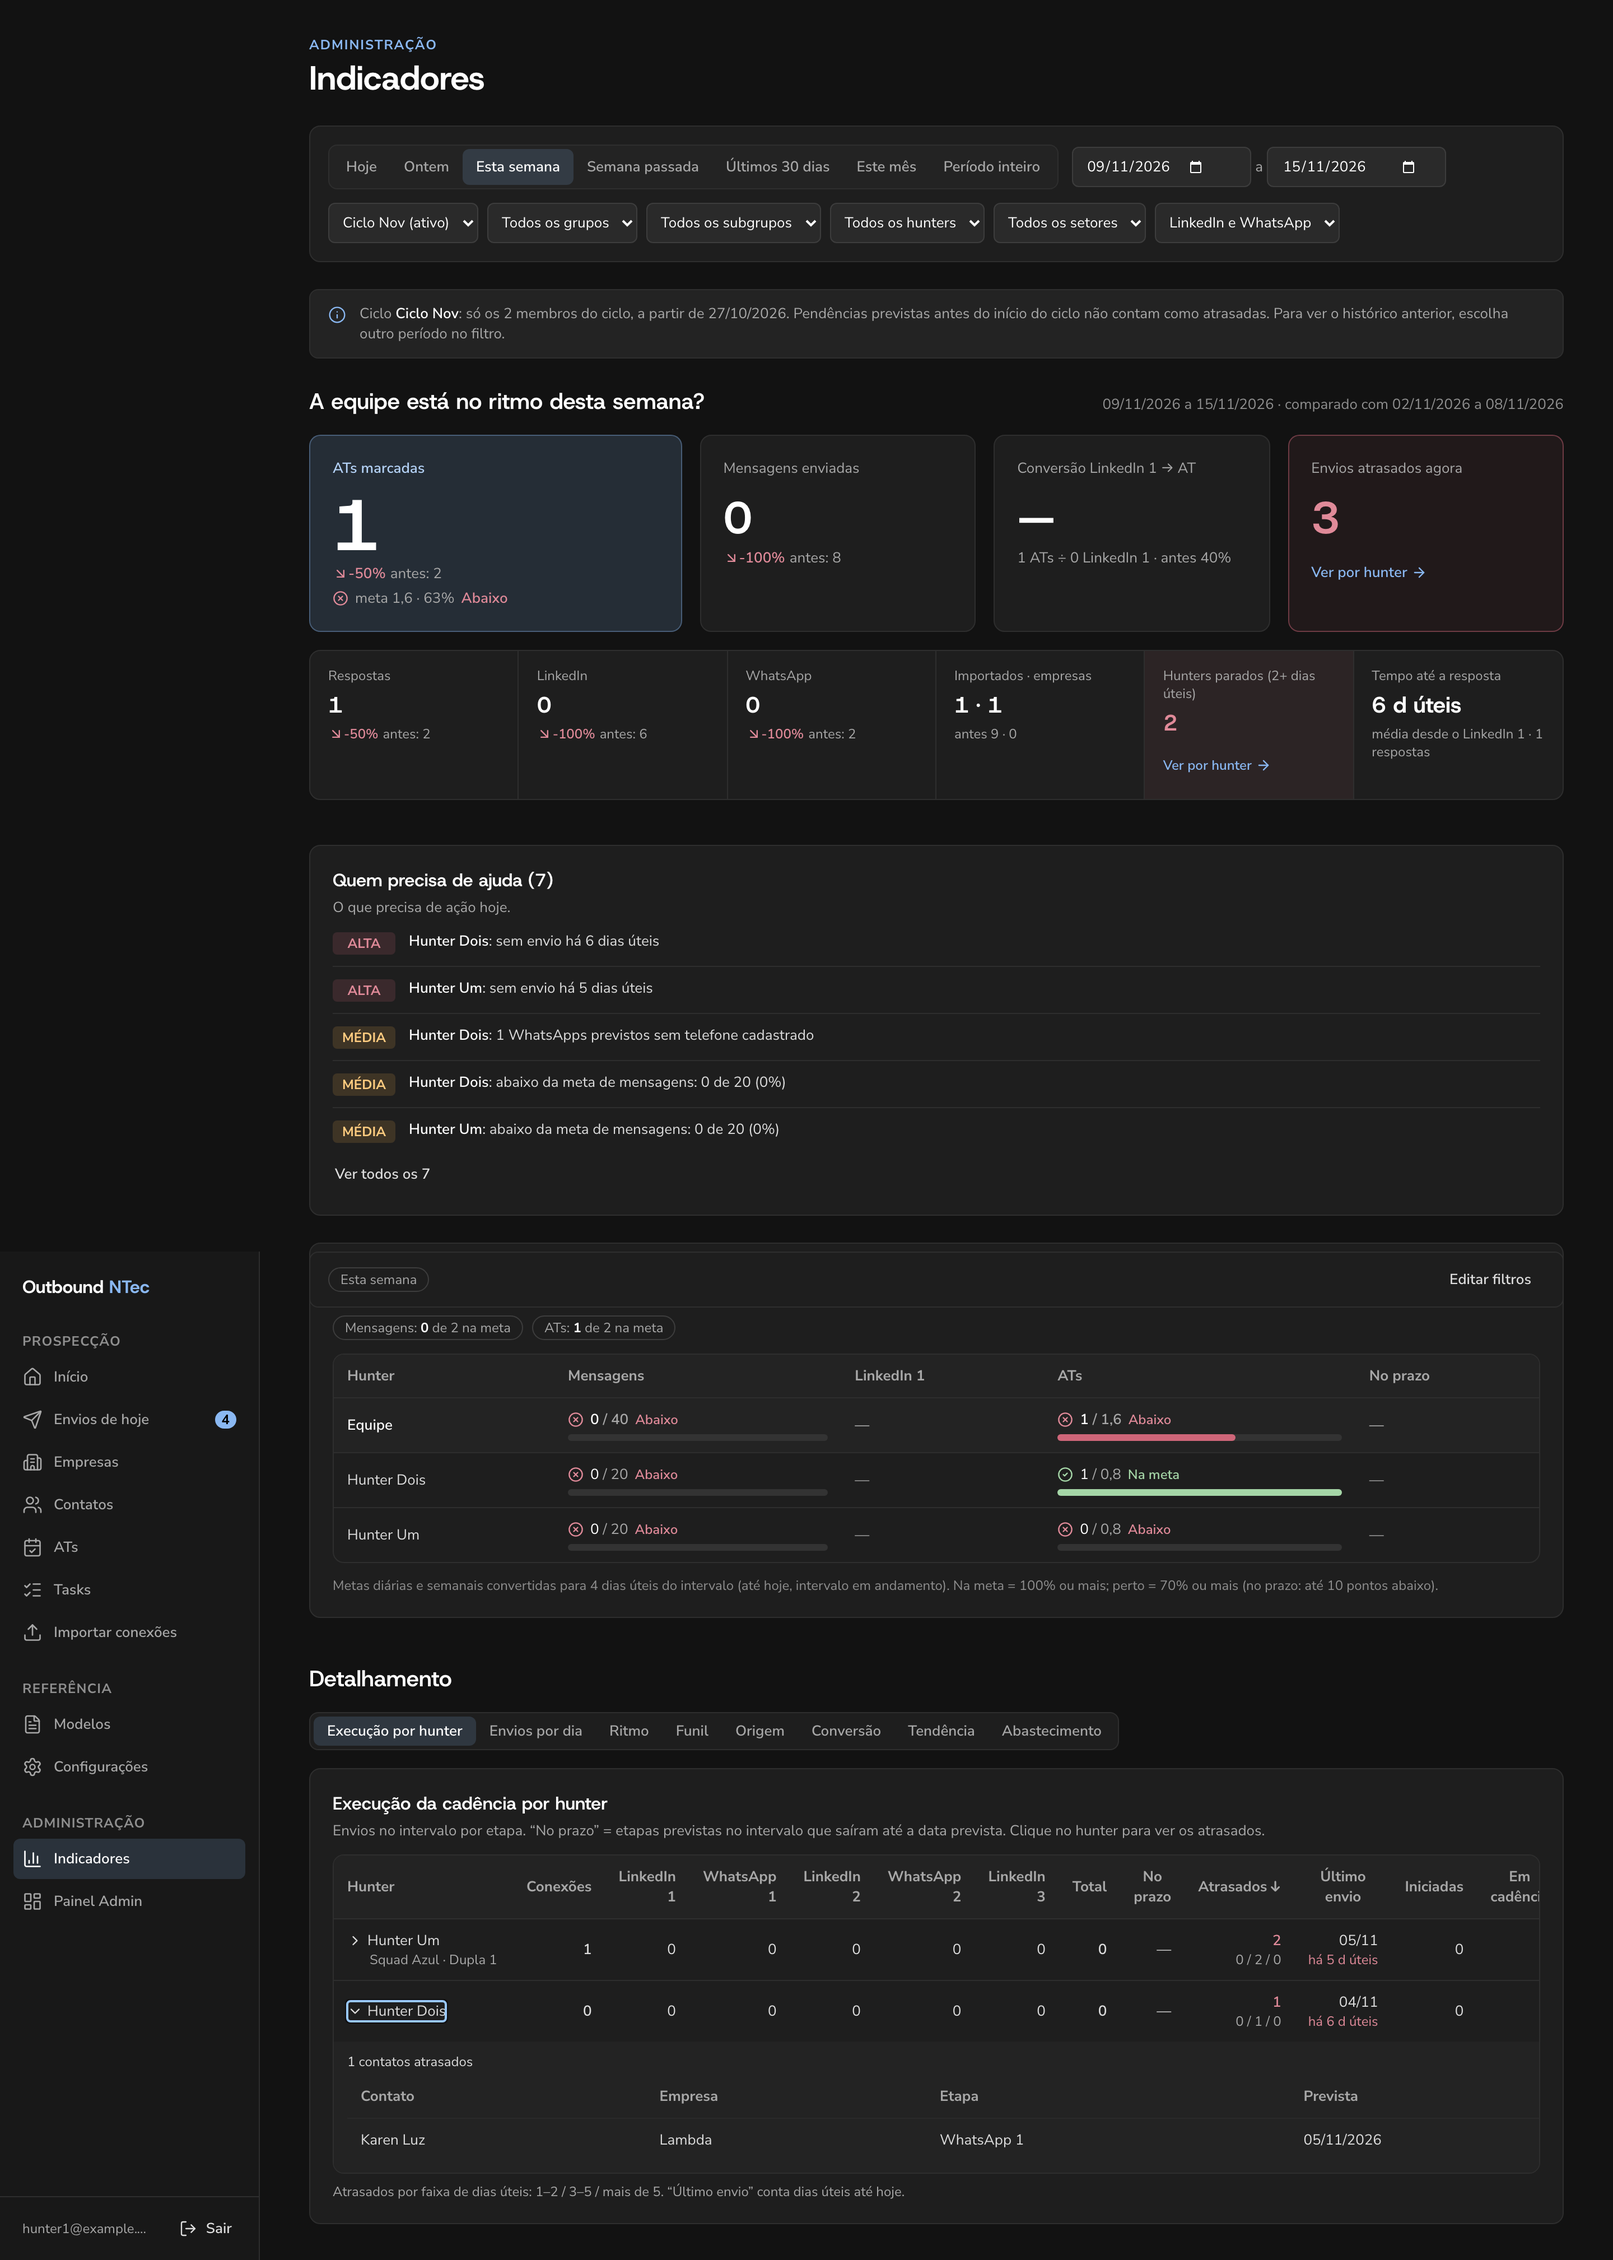
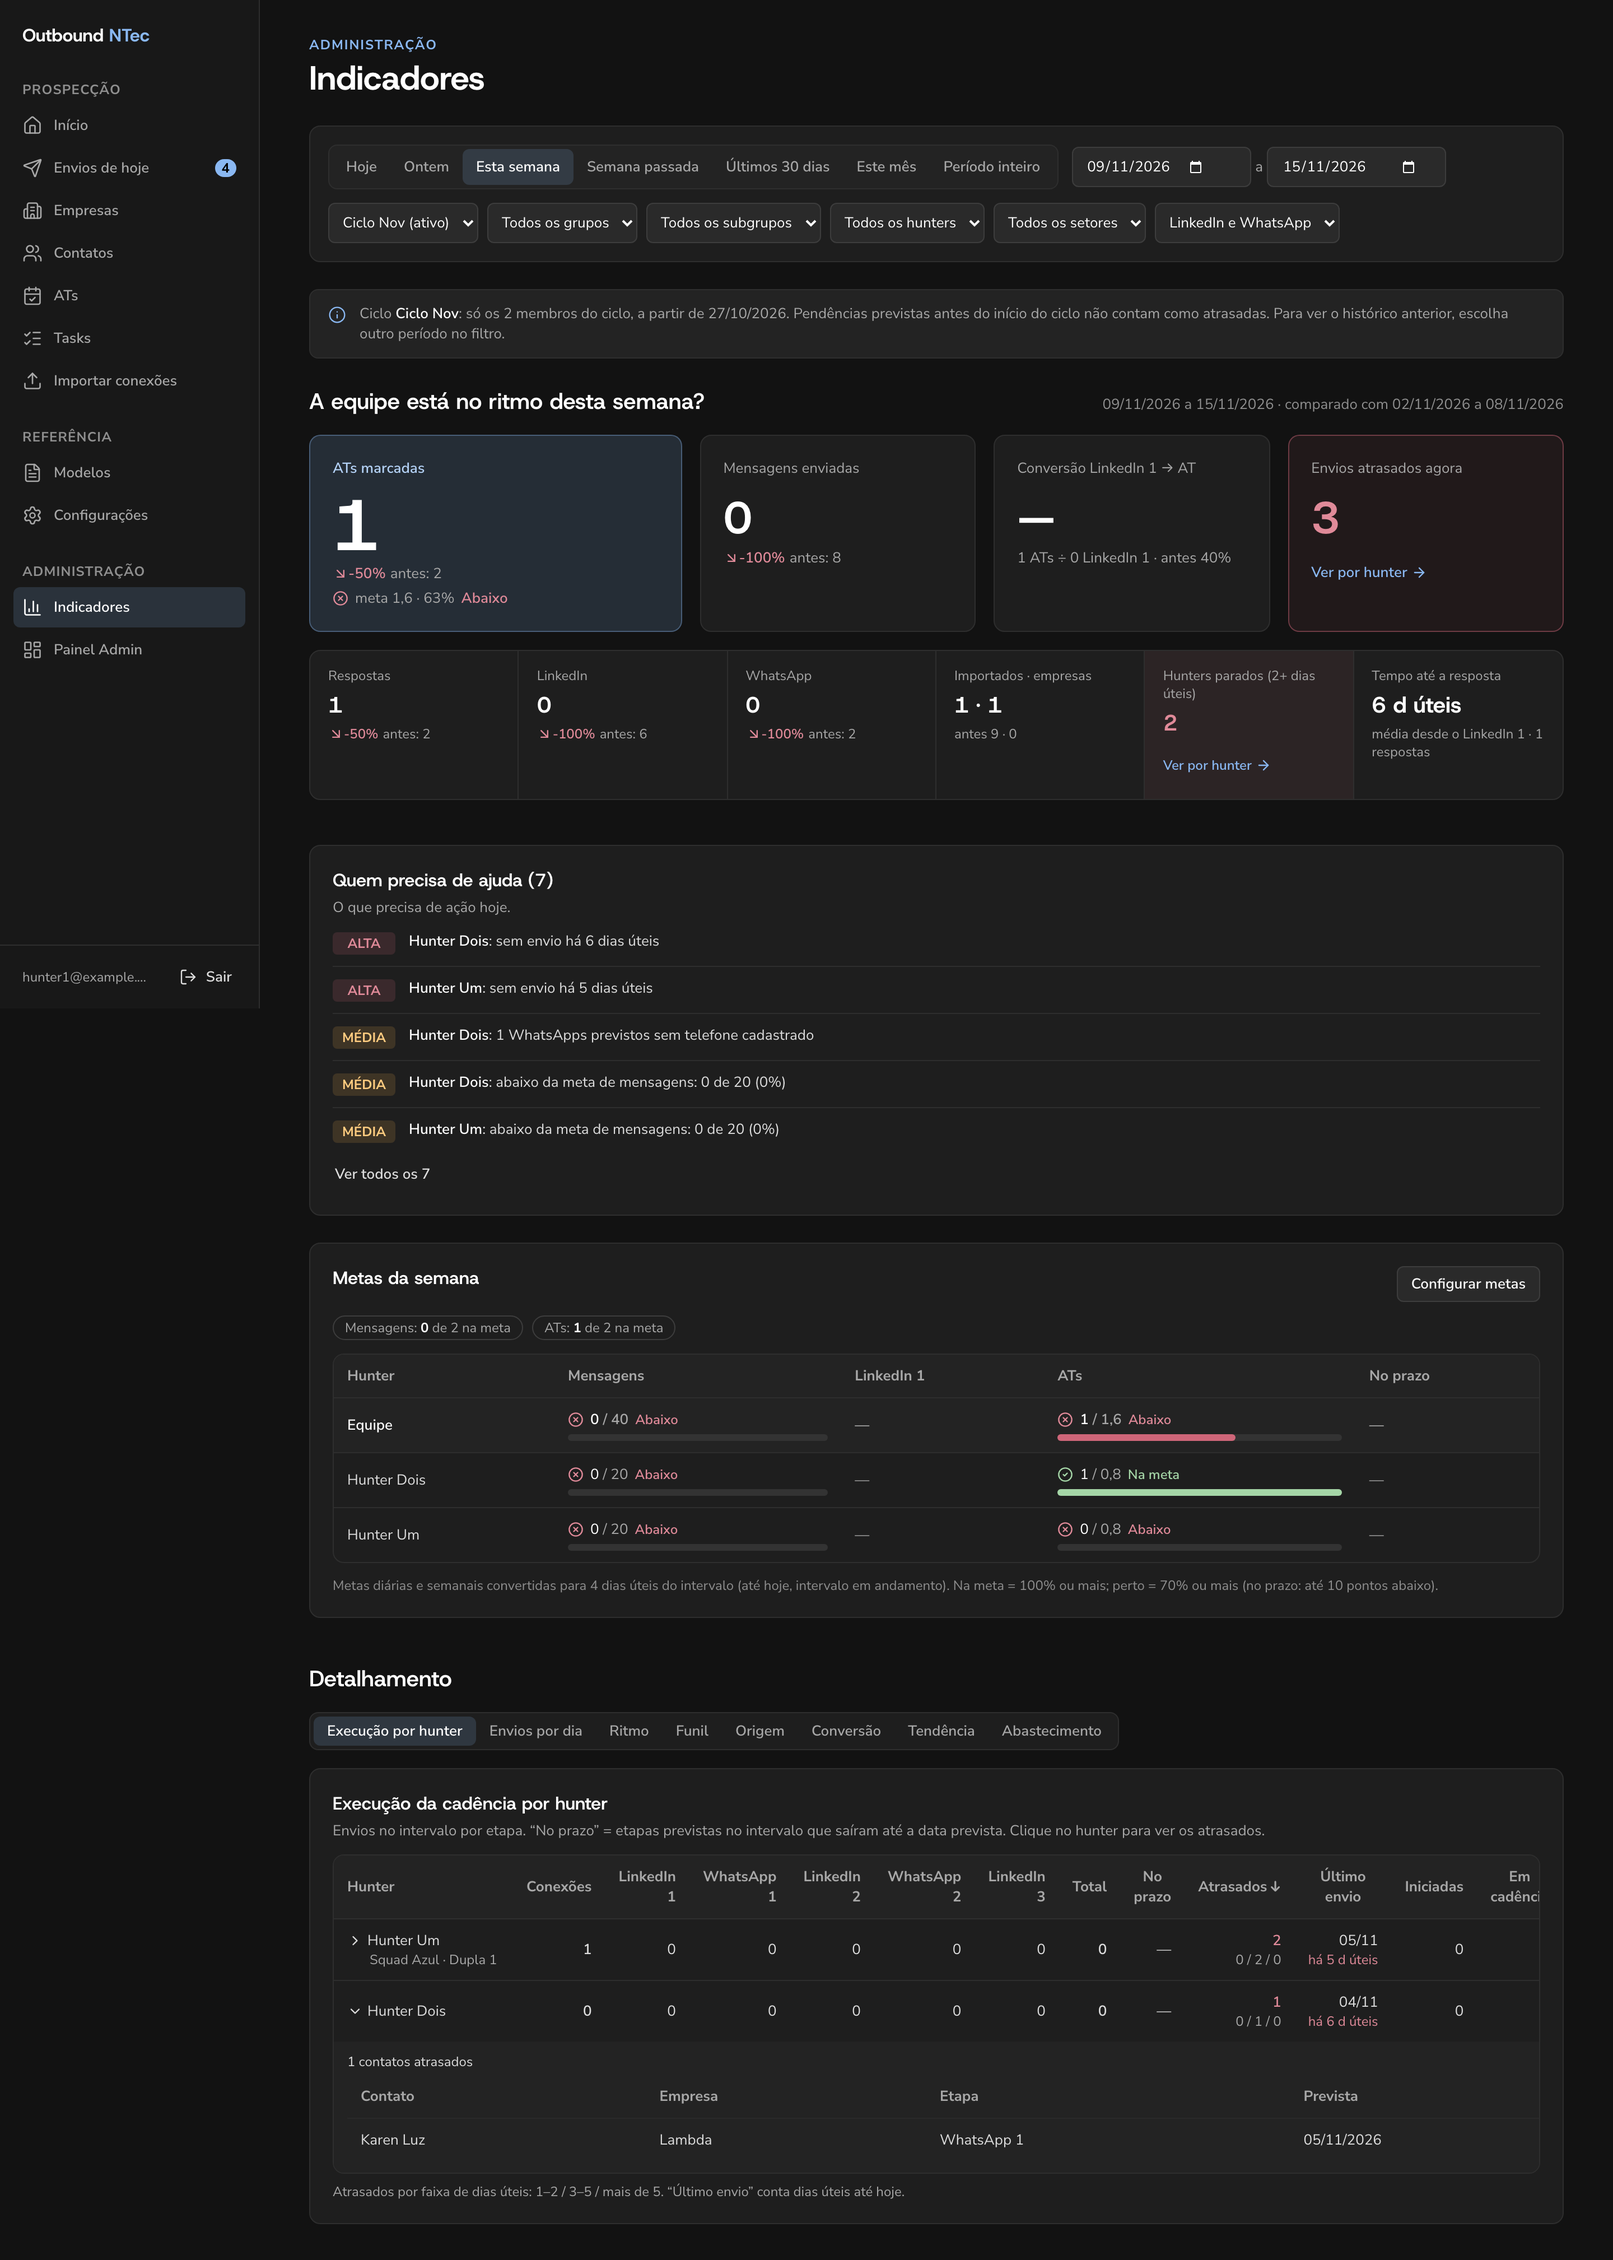
fix(painel): ajusta teste dos atalhos, captura da execução e detalhes dos filtros dos indicadores

diff --git a/src/components/painel/dashboard/Filters.tsx b/src/components/painel/dashboard/Filters.tsx
@@ -37,13 +37,20 @@ export function Filters({
     io.observe(el);
     return () => io.disconnect();
   }, []);
-  const editar = () => {
-    // Foca antes de rolar: a barra some quando o cartão volta à tela.
+  const focarAtivo = () =>
     card.current?.querySelector<HTMLElement>('[aria-pressed="true"], input')?.focus({
       preventScroll: true,
     });
+  const editar = () => {
+    // Foca antes de rolar: a barra some quando o cartão volta à tela.
+    focarAtivo();
     const reduzido = window.matchMedia("(prefers-reduced-motion: reduce)").matches;
     window.scrollTo({ top: 0, behavior: reduzido ? "auto" : "smooth" });
+  };
+  // Depois de limpar, o foco vai para o atalho de intervalo (a barra compacta pode sumir).
+  const limpar = () => {
+    focarAtivo();
+    onClear?.();
   };
   const set = (patch: Partial<DashFilters>) => onChange({ ...value, ...patch });
   const period = options?.periods.find((p) => p.id === value.periodId);
@@ -190,12 +197,13 @@ export function Filters({
                 <Chip key={c}>{c}</Chip>
               ))}
             </ul>
-            <Button size="sm" variant="ghost" onClick={onClear}>
+            <Button size="sm" variant="ghost" onClick={limpar}>
               Limpar filtros
             </Button>
           </div>
         )}
       </div>
+      {/* `mb-0` cancela a margem extra do `space-y` do pai: o invólucro tem altura zero. */}
       <div className="sticky top-0 z-10 mb-0 h-0">
         <div
           role="region"
@@ -204,15 +212,15 @@ export function Filters({
           className="absolute inset-x-0 top-0 flex items-center gap-3 rounded-lg border bg-card px-4 py-2"
         >
           <ul className="flex min-w-0 flex-1 flex-wrap items-center gap-2">
-            {chips.map((c) => (
-              <Chip key={c}>{c}</Chip>
+            {chips.map((c, i) => (
+              <Chip key={`${i}-${c}`}>{c}</Chip>
             ))}
           </ul>
           <Button size="sm" variant="ghost" onClick={editar}>
             Editar filtros
           </Button>
           {onClear && (
-            <Button size="sm" variant="ghost" onClick={onClear}>
+            <Button size="sm" variant="ghost" onClick={limpar}>
               Limpar filtros
             </Button>
           )}

diff --git a/e2e/indicadores.spec.ts b/e2e/indicadores.spec.ts
@@ -338,13 +338,26 @@ test.describe("Indicadores", () => {
       "descending",
     );
     await expect(exec.getByRole("button", { name: /Atrasados/ })).toContainText("↓");
+    // Hunter Um tem 2 atrasados e Hunter Dois 1: a primeira linha prova a ordenação.
+    await expect(exec.locator("tbody tr").first()).toContainText("Hunter Um");
+    await exec.getByRole("button", { name: /Atrasados/ }).click();
+    await expect(exec.locator("tbody tr").first()).toContainText("Hunter Dois");
     await page
       .getByRole("group", { name: "Hunters parados (2+ dias úteis)", exact: true })
       .getByRole("link", { name: "Ver por hunter" })
       .click();
     await expect(page).toHaveURL(/ordem=idle/);
     await expect(exec.getByRole("button", { name: /Último envio/ })).toContainText("↓");
+    // Hunter Dois está parado há 6 dias úteis e Hunter Um há 5.
+    await expect(exec.locator("tbody tr").first()).toContainText("Hunter Dois");
     await expect(exec).toBeInViewport();
+  });
+
+  test("sem atrasados o KPI não oferece o atalho Ver por hunter", async ({ page }) => {
+    await page.goto("/indicadores?hunter=11111111-1111-4111-8111-111111111111&canal=linkedin");
+    const kpi = page.getByRole("group", { name: "Envios atrasados agora", exact: true });
+    await expect(kpi).toContainText("0");
+    await expect(kpi.getByRole("link", { name: "Ver por hunter" })).toHaveCount(0);
   });
 
   test("a ordenação da Execução fica na url e sobrevive à troca de aba", async ({ page }) => {

diff --git a/src/routes/_authenticated/indicadores.tsx b/src/routes/_authenticated/indicadores.tsx
@@ -11,6 +11,7 @@ const DESCRICAO = "A equipe está no ritmo? Envios, atrasados, metas e funil de 
  */
 function validarBusca(raw: Record<string, unknown>): IndicadoresBusca {
   const b = parseIndicadoresBusca(raw);
+  // `satisfies` exige todas as chaves: acrescentar uma chave em IndicadoresBusca quebra o typecheck.
   return {
     intervalo: b.intervalo,
     de: b.de,
@@ -25,7 +26,7 @@ function validarBusca(raw: Record<string, unknown>): IndicadoresBusca {
     ordem: b.ordem,
     sentido: b.sentido,
     aberto: b.aberto,
-  };
+  } satisfies { [K in keyof IndicadoresBusca]-?: IndicadoresBusca[K] };
 }
 
 export const Route = createFileRoute("/_authenticated/indicadores")({

diff --git a/e2e/screenshots.spec.ts b/e2e/screenshots.spec.ts
@@ -46,7 +46,7 @@ const SHOTS: Shot[] = [
   { name: "09-indicadores", path: "/indicadores" },
   {
     name: "09-indicadores-execucao",
-    path: "/indicadores?aberto=22222222-2222-4222-8222-222222222222&ordem=late#execucao",
+    path: "/indicadores?aberto=22222222-2222-4222-8222-222222222222&ordem=late",
   },
   { name: "10-painel-hunters", path: "/painel", tab: "Hunters" },
   { name: "11-painel-periodos", path: "/painel", tab: "Períodos e grupos" },
